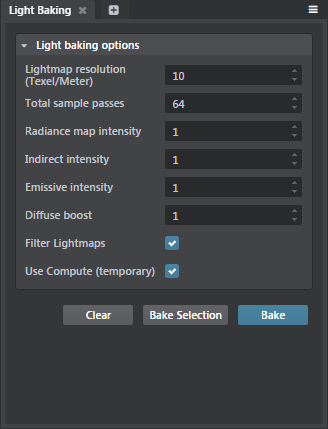
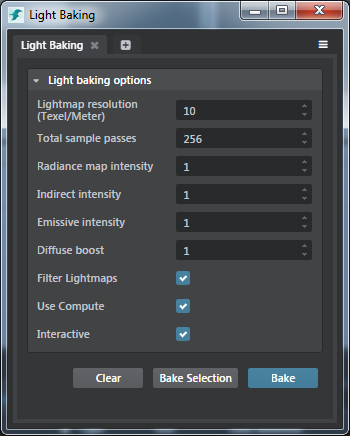
Adding new interactive baking updates.

diff --git a/source/stingray_help/lighting_rendering/capture_frames_tool.md b/source/stingray_help/lighting_rendering/capture_frames_tool.md
@@ -1,5 +1,7 @@
 # Capture Frames Tool
 
+![UPDATED](../images/updated.png)
+
 The **Capture Frames** Tool lets you render frames to disk. The tool is integrated into the **Story Editor** workflow, and can also be initiated through Flow. For more information on using Flow, see the **Capture Frames** category in the [Stingray Flow Node Reference](../../flow_ref/index.html).
 
 The following **Capture Settings** can be adjusted to control your output. See ~{ Capture frames to disk }~ for more information.
@@ -15,6 +17,12 @@ The following **Capture Settings** can be adjusted to control your output. See ~
 
 <dt>Camera</dt>
 <dd>Lets you select the camera to capture. </dd>
+
+<dt>Capture Range</dt>
+[![NEW](../images/new.png "What else is new in v1.8?")](../release_notes/readme_1.8.html)
+<dd>Lets you set a custom range for the camera to capture. You can select **Custom Range - Seconds** or **Custom Range - Frames**. To capture the entire story, select **Use Story Timeline**.
+
+  >**Tip:** Instead of recapturing your entire story after making a fix, specify a **Capture Range**, and then quickly recapture only those details that need updating. </dd>
 
 </dl>
 

diff --git a/source/stingray_help/lighting_rendering/lighting/light_baking/bake_with_stingray.md b/source/stingray_help/lighting_rendering/lighting/light_baking/bake_with_stingray.md
@@ -1,5 +1,7 @@
 # Baking with the Stingray baker
 
+![UPDATED](../../../images/updated.png)
+
 The Stingray light baker is the light baking system built in to Stingray.
 
 ## What does it bake?
@@ -61,6 +63,14 @@ Note that you may need to set this value very high in order to see the effect.</
 <dd>When enabled (default), the baker uses compute shaders, optimizing the performance of the baker on most scenes and hardware.
 
 >**Tip:** Disable **Use Compute** if you are running slower hardware.</dd>
+
+<dt>Interactive</dt>
+[![NEW](../../../images/new.png "What else is new in v1.8?")](../../../release_notes/readme_1.8.html)
+
+Disable Interactive baking to better control your memory consumption while baking. Instead of baking everything in the scene and showing the progress, Non-interactive baking bakes one object in the scene completely and then outputs the lightmap, saving memory in the process.
+
+>**Note:** Non-interactive baking is the default baking mode when you launch a baking session from the command line. See ~{ Trigger lightmap baking from the command line }~.
+<dd>
 
 </dl>
 

diff --git a/source/stingray_help/lighting_rendering/lighting/light_baking/command_line_baking.md b/source/stingray_help/lighting_rendering/lighting/light_baking/command_line_baking.md
@@ -1,6 +1,10 @@
 # Trigger lightmap baking from the command line
 
+![UPDATED](../../../images/updated.png)
+
 You can start the Stingray engine application from a command-line prompt, and provide parameters on the command line to trigger lightmap baking.
+
+>**Note:** [![NEW](../../../images/new.png "What else is new in v1.8?")](../../../release_notes/readme_1.8.html) Non-interactive baking is the default baking mode when you launch a baking session from the command line. See ~{ Baking with the Stingray baker }~.
 
 ## To trigger lightmap baking from the command line
 
